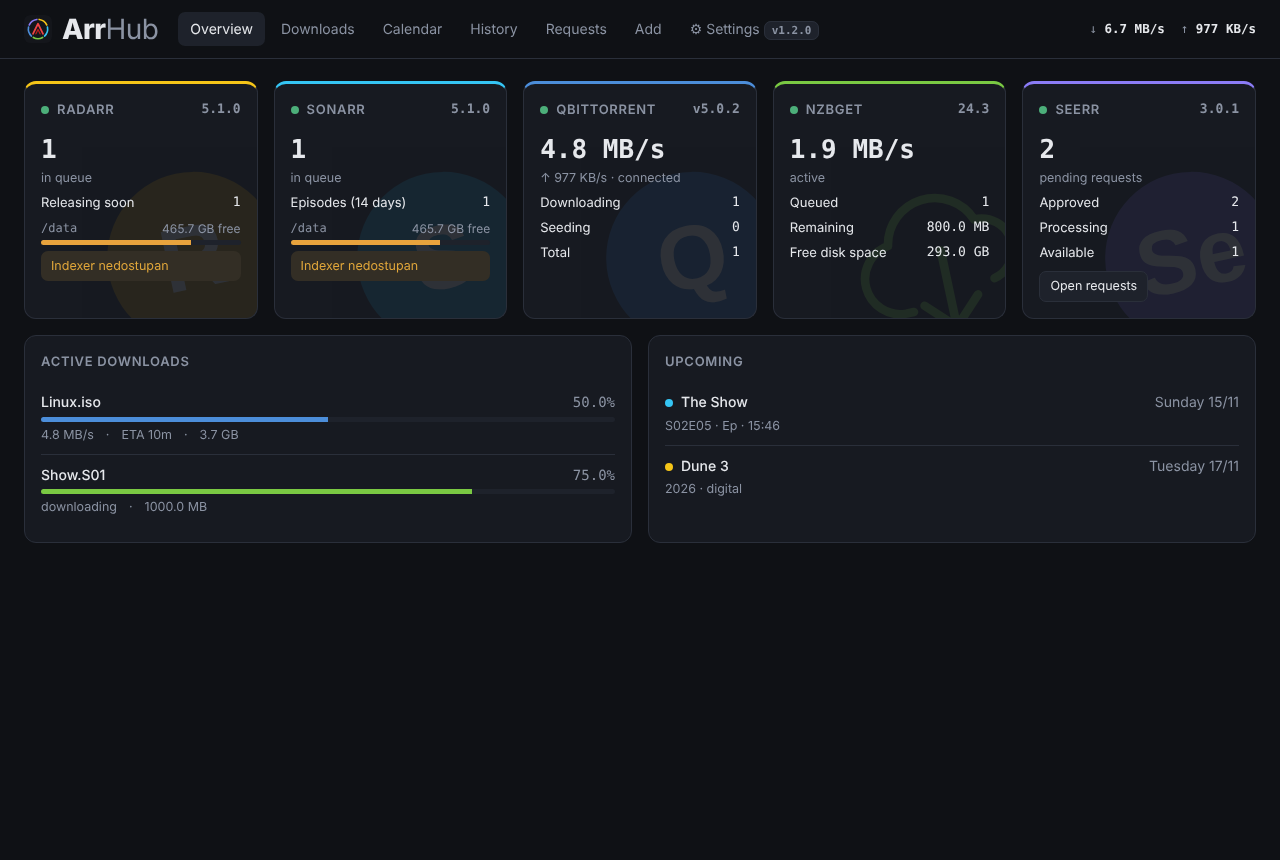
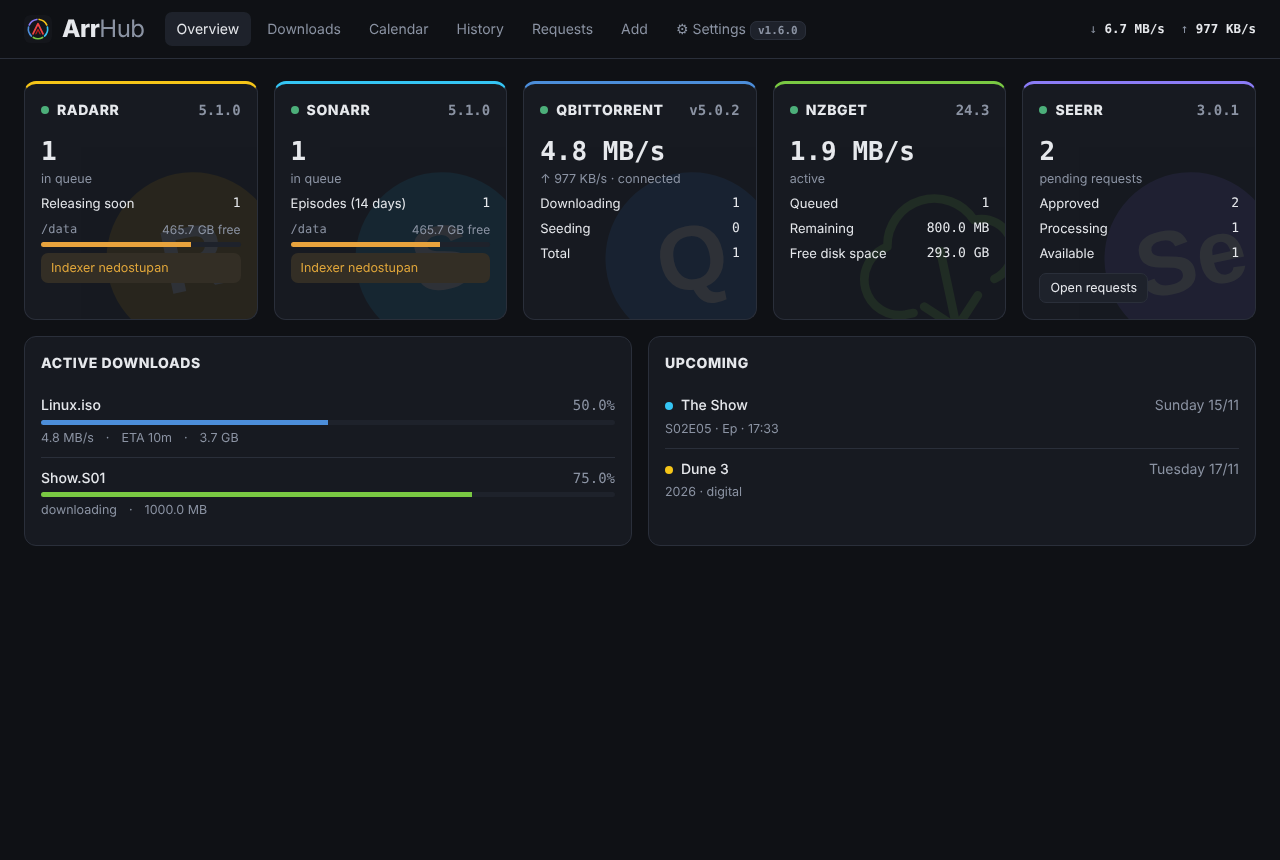
Release 1.6.1: bolder card titles (800, 14 px, main text colour)
Claude-Session: https://claude.ai/code/session_019WLh2Y7R5hnFwEuNHauMD5

diff --git a/public/index.html b/public/index.html
@@ -37,7 +37,7 @@ main{max-width:1400px;margin:0 auto;padding:22px 24px 60px}
 @media(max-width:1000px){.g2{grid-template-columns:1fr}}
 @media(max-width:560px){header{flex-wrap:wrap}.speeds{margin-left:0}}
 .card{background:var(--panel);border:1px solid var(--line);border-radius:12px;padding:16px;min-width:0}
-.card h2{margin:0 0 12px;font-size:13px;font-weight:600;text-transform:uppercase;letter-spacing:.7px;color:var(--muted);display:flex;align-items:center;gap:8px}
+.card h2{margin:0 0 12px;font-size:14px;font-weight:800;text-transform:uppercase;letter-spacing:.6px;color:var(--text);display:flex;align-items:center;gap:8px}
 .card h2 .sp{flex:1}
 .dot{width:8px;height:8px;border-radius:50%;display:inline-block;flex:none}
 .svc{border-top:3px solid var(--c)}

diff --git a/.github/releases/v1.6.1.md b/.github/releases/v1.6.1.md
@@ -1,0 +1,24 @@
+## Changes
+- **Bolder card titles** – service names and other card titles (e.g. *Radarr*, *Active downloads*, *Appearance*) are now bold (800), slightly larger (14 px) and use the main text colour instead of grey, so each card's title stands out clearly in every theme. Version numbers next to the names stay subtle.
+
+## Upgrade
+
+**Docker**
+```bash
+docker pull ghcr.io/moordrak/arrhub:1.6.1   # or :latest
+docker compose up -d                          # if you use docker-compose.yml
+```
+
+**Proxmox LXC** (on the Proxmox host)
+```bash
+pct exec <CTID> -- bash -c "$(curl -fsSL https://raw.githubusercontent.com/moordrak/arrhub/main/install.sh)"
+```
+
+**Debian / Ubuntu**
+```bash
+bash -c "$(curl -fsSL https://raw.githubusercontent.com/moordrak/arrhub/main/install.sh)"
+```
+
+Your existing `config.json` is kept.
+
+**Full changelog:** https://github.com/moordrak/arrhub/compare/v1.6.0...v1.6.1
